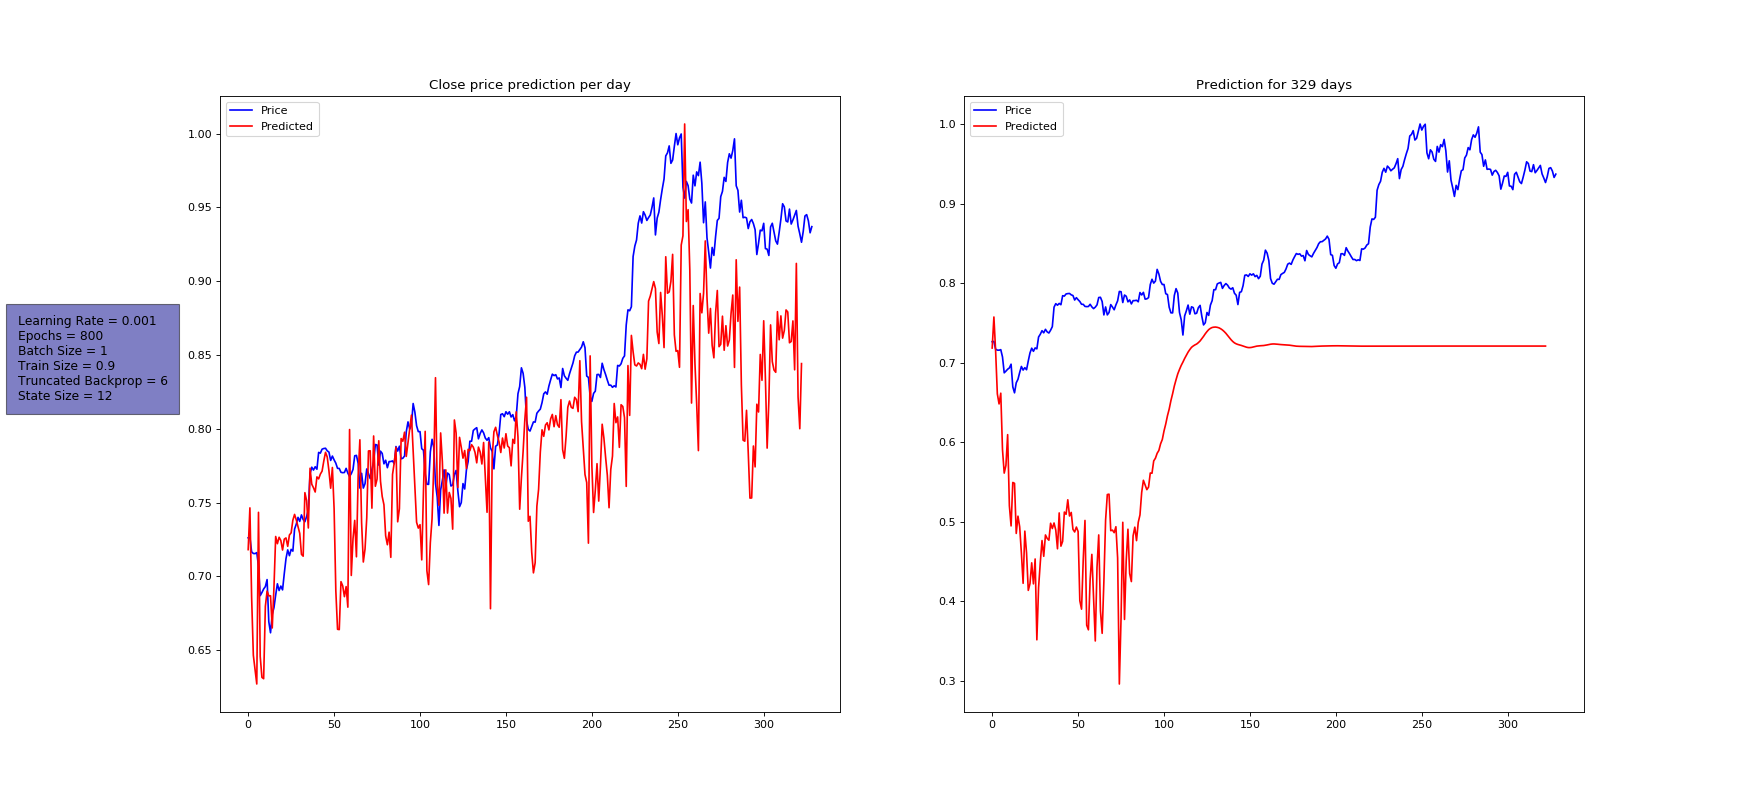
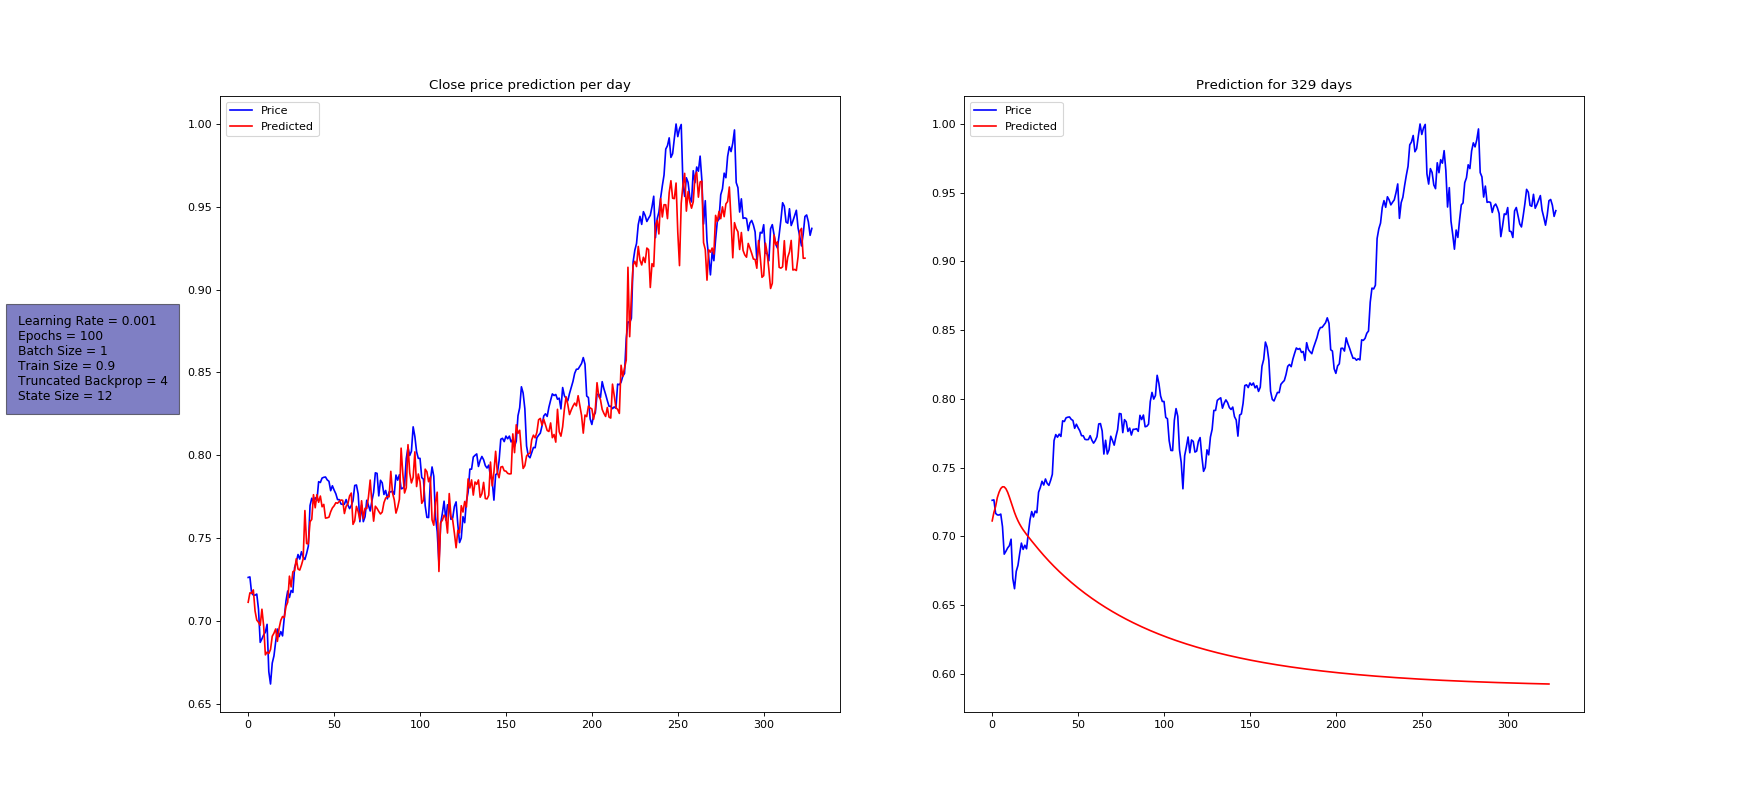
Add some average errors and test outputs

diff --git a/models/tensorflow_tests/stock_predictor.py b/models/tensorflow_tests/stock_predictor.py
@@ -6,7 +6,7 @@ import os
 
 outfile = "prediction.png"
 outfolder = "output"
-infile = "GOOG_alltargets.csv"
+infile = "KNYJF_alltargets.csv"
 infolder = "stock" # ("stock" / "currency")
 
 learning_rate = 0.001
@@ -30,6 +30,7 @@ def prepare_data():
     datasetTrain = datasetNorm[dataset.index < train_length]
     datasetTest = datasetNorm[dataset.index >= train_length]
 
+
     try:
         xTrain = datasetTrain[['Open','High','Low','Close']].as_matrix()
         yTrain = datasetTrain[['OpenTarget','HighTarget','LowTarget','CloseTarget']].as_matrix()
@@ -48,7 +49,7 @@ def prepare_data():
     return xTrain, xTest, yTrain, yTest, test_prices
 
 
-def model():
+def model(nn_mode="lstm"):
     batchX_placeholder = tf.placeholder(dtype=tf.float32,
                                         shape=[None, truncated_backprop_length, num_features],
                                         name='data_ph')
@@ -60,7 +61,12 @@ def model():
     b2 = tf.Variable(   initial_value=np.random.rand(1, num_classes),
                         dtype=tf.float32)
     labels_series = tf.unstack(batchY_placeholder, axis=1)
-    cell = tf.contrib.rnn.LSTMCell(num_units=state_size)
+
+    if nn_mode == "lstm":
+        cell = tf.contrib.rnn.LSTMCell(num_units=state_size)
+    elif nn_mode == "rnn":
+        cell = tf.contrib.rnn.BasicRNNCell(num_units=state_size)
+
     states_series, current_state = tf.nn.dynamic_rnn(   cell=cell,
                                                         inputs=batchX_placeholder,
                                                         dtype=tf.float32)
@@ -82,6 +88,8 @@ def train_and_test( loss, train_step, prediction, last_label, last_state,
     loss_list = []
     test_days_pred_list = []
     test_day_pred_list = []
+    test_days_differences = []
+    test_day_differences = []
 
     with tf.Session() as sess:
         tf.global_variables_initializer().run()
@@ -110,15 +118,19 @@ def train_and_test( loss, train_step, prediction, last_label, last_state,
         # Test len(xTest) days
         for test_idx in range(len(xTest) - truncated_backprop_length):
             if test_idx == 0:
+                testBatchY = yTest[test_idx:test_idx+truncated_backprop_length].reshape((1, truncated_backprop_length, num_classes))
                 testBatchX = xTest[test_idx:test_idx+truncated_backprop_length,:].reshape((1, truncated_backprop_length, num_features))
                 testBatchX = testBatchX.tolist()
             else:
+                testBatchY = yTest[test_idx:test_idx+truncated_backprop_length].reshape((1, truncated_backprop_length, num_classes))
                 test_pred = test_pred[0].tolist()
                 testBatchX[0].append(test_pred)
                 testBatchX[0].pop(0)
 
             test_pred = prediction.eval(feed_dict={batchX_placeholder : testBatchX})
             test_days_pred_list.append(test_pred[-1][0])
+
+            test_days_differences.append(abs(testBatchY[0][-1][0] - test_days_pred_list[-1]))
 
         # Test per day
         for test_idx in range(len(xTest) - truncated_backprop_length):
@@ -131,26 +143,45 @@ def train_and_test( loss, train_step, prediction, last_label, last_state,
             _last_state, _last_label, test_pred = sess.run([last_state, last_label, prediction], feed_dict=feed)
             test_day_pred_list.append(test_pred[-1][0])
 
-    return test_day_pred_list, test_days_pred_list
+            test_day_differences.append(abs(testBatchY[0][-1][0] - test_day_pred_list[-1]))
+
+    return test_day_pred_list, test_days_pred_list, test_day_differences, test_days_differences
 
 
-def plot_prediction(day, days, test_prices):
+def plot_prediction(day, days, test_prices, day_differences, days_differences):
     fig = plt.figure(num=None, figsize=(22, 10), dpi=80, facecolor="white")
     fig.canvas.set_window_title("Stock prediction {}".format(infile))
     ax1 = fig.add_subplot(1, 2, 1)
     ax2 = fig.add_subplot(1, 2, 2)
 
+    day_price_error = sum(day_differences) / len(day_differences) * (dataset["Close"].max() - dataset["Close"].min()) + dataset["Close"].min()
+    days_price_error = sum(days_differences) / len(days_differences) * (dataset["Close"].max() - dataset["Close"].min()) + dataset["Close"].min()
+
+    ax1.set_xlabel("Days")
+    ax1.set_ylabel("Price")
     ax1.set_title("Close price prediction per day")
+    ax1.text(0.5, 0.95, "Average price error: %.6f" % day_price_error,
+                    fontsize=16,
+                    horizontalalignment='center',
+                    verticalalignment='center',
+                    transform=ax1.transAxes)
     ax1.plot(test_prices, label='Price', color='blue')
     ax1.plot(day, label='Predicted',color='red')
     ax1.legend(loc='upper left')
 
+    ax2.set_xlabel("Days")
+    ax2.set_ylabel("Price")
     ax2.set_title("Prediction for {} days".format(len(test_prices)))
+    ax2.text(0.5, 0.95, "Average price error: %.6f" % (days_price_error),
+                    fontsize=16,
+                    horizontalalignment='center',
+                    verticalalignment='center',
+                    transform=ax2.transAxes)
     ax2.plot(test_prices, label='Price', color='blue')
     ax2.plot(days, label='Predicted', color='red')
     ax2.legend(loc='upper left')
 
-    plt.figtext(0.01, 0.5, """Learning Rate = {}\nEpochs = {}\nBatch Size = {}\nTrain Size = {}\nTruncated Backprop = {}\nState Size = {}""".format(
+    plt.figtext(0.005, 0.5, """Learning Rate = {}\nEpochs = {}\nBatch Size = {}\nTrain Size = {}\nTruncated Backprop = {}\nState Size = {}""".format(
                         learning_rate, num_epochs, batch_size, train_size,
                         truncated_backprop_length, state_size), bbox={'facecolor': 'darkblue', 'alpha': 0.5, 'pad': 10},
                         fontsize=11)
@@ -163,8 +194,8 @@ if __name__ == "__main__":
     outfile = infile.split(".")[0] + "_" + outfile
     trainX, testX, trainY, testY, prices = prepare_data()
     loss, train_step, prediction, last_label, last_state, placeholder_x, placeholder_y = model()
-    day, days = train_and_test( loss, train_step, prediction, last_label, last_state,
+    day, days, test_day_differences, test_days_differences = train_and_test( loss, train_step, prediction, last_label, last_state,
                                 placeholder_x, placeholder_y,
                                 trainX, testX, trainY, testY)
 
-    plot_prediction(day, days, prices)
+    plot_prediction(day, days, prices, test_day_differences, test_days_differences)
